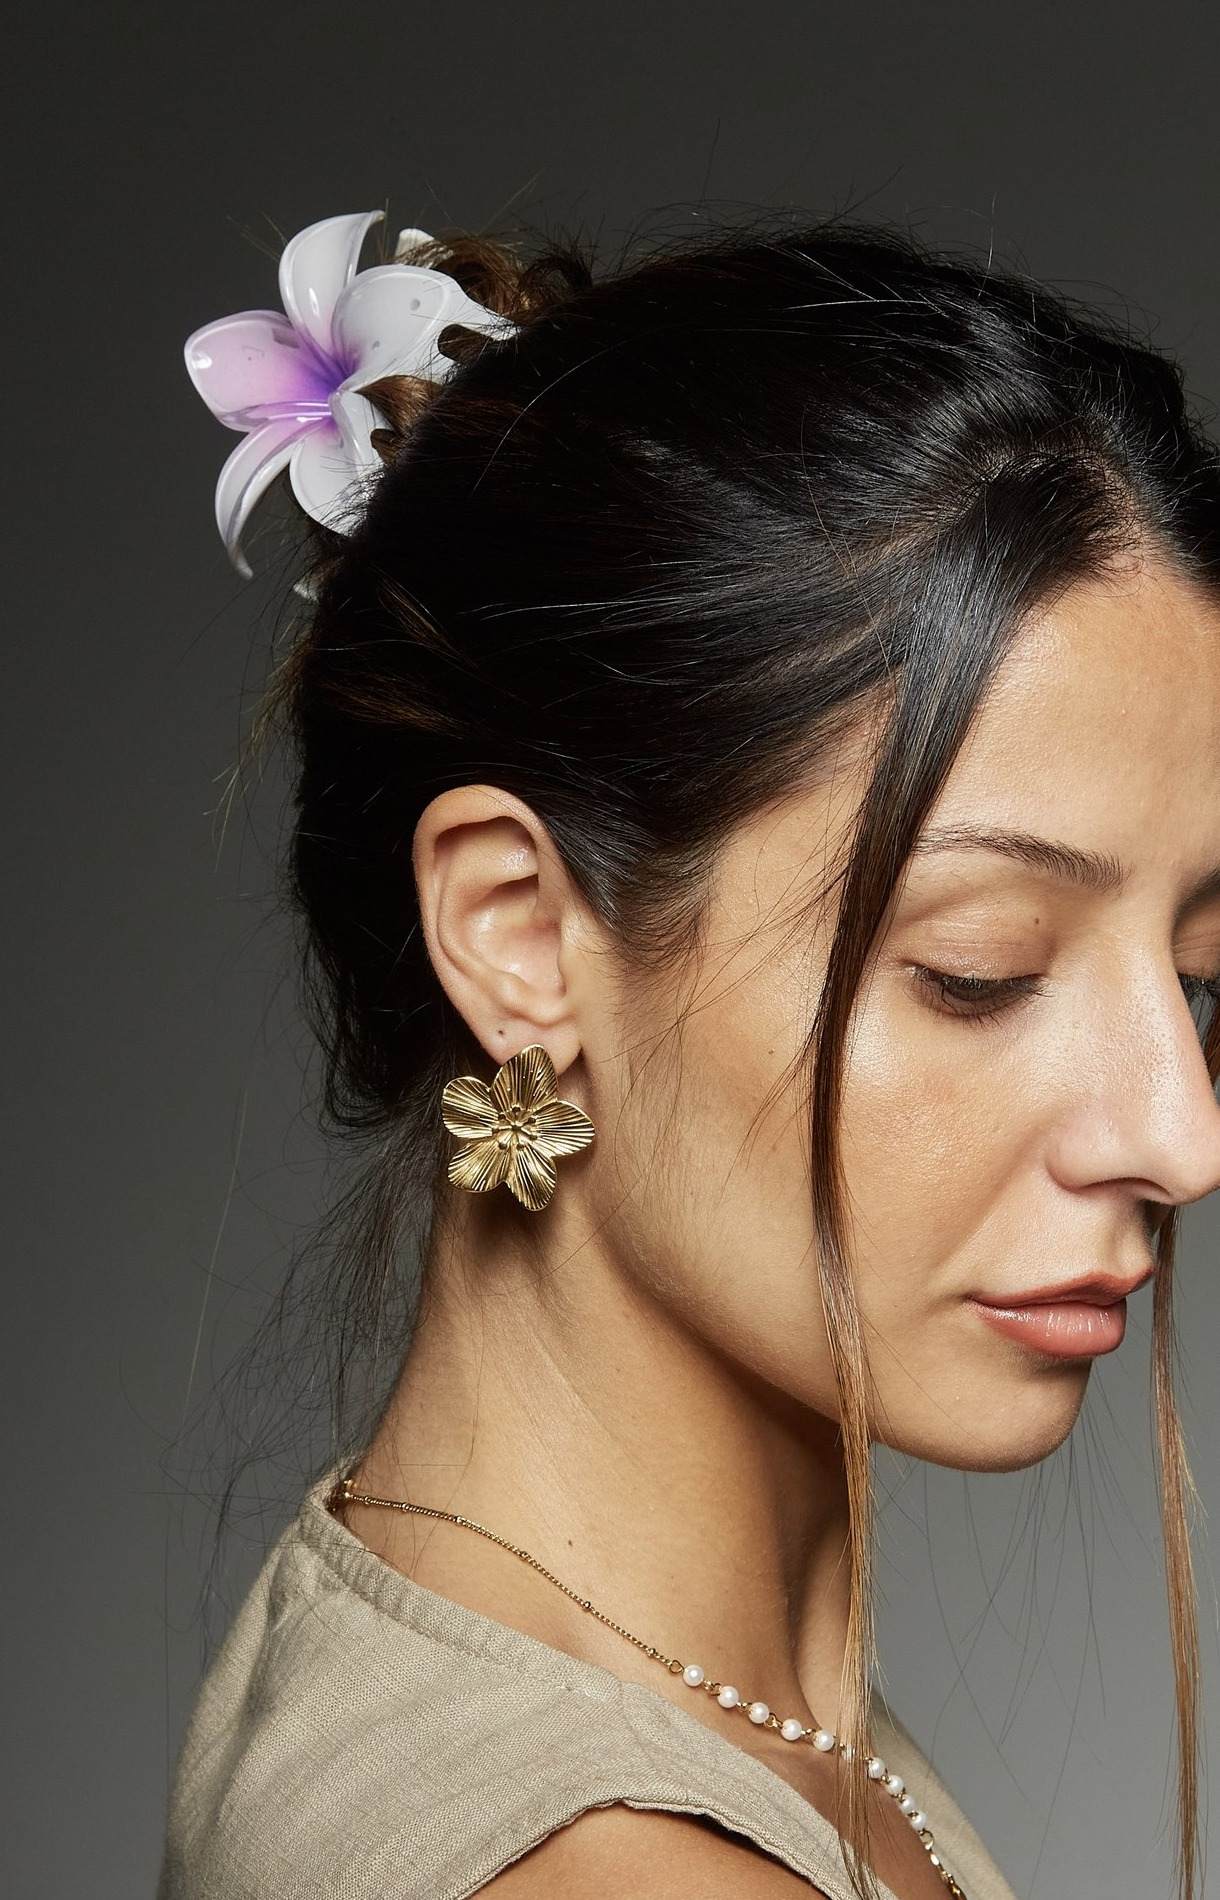
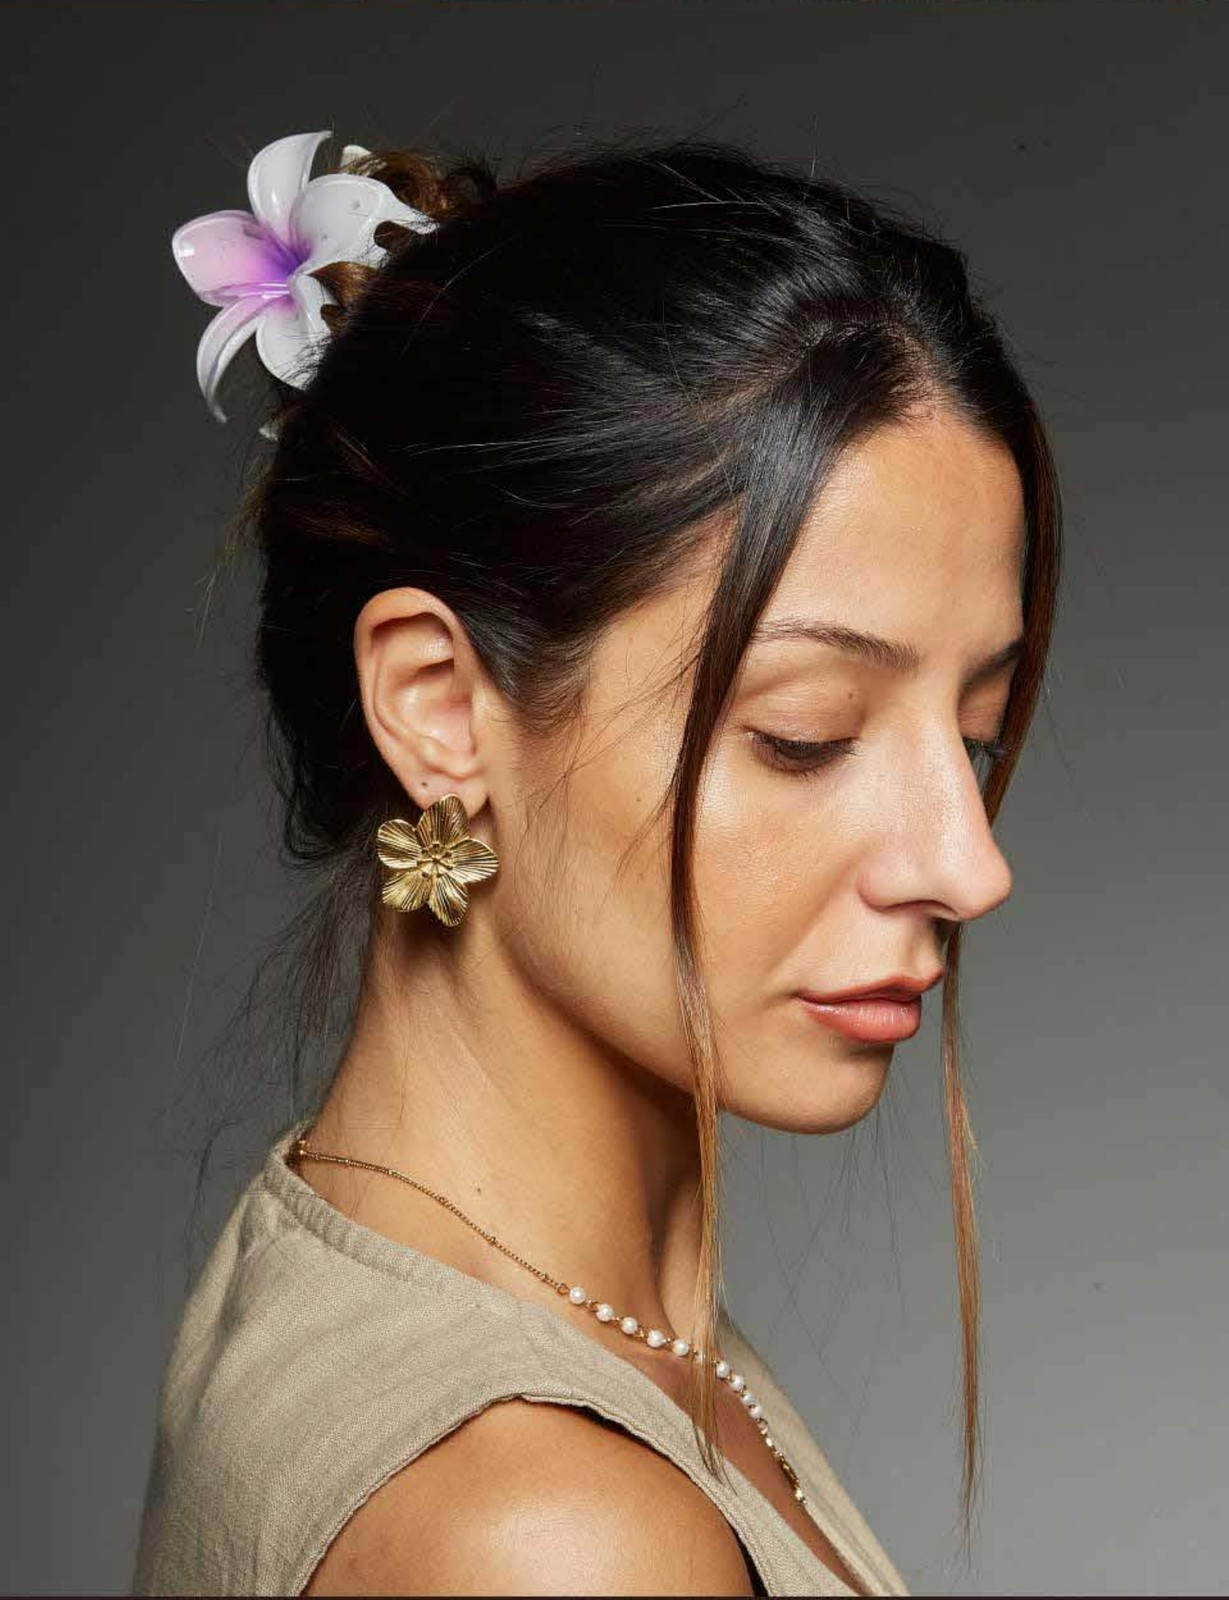
Use pixel-exact crops extracted directly from the PDF guide
Re-rendered the PDF at 200dpi and cropped the Arizona photo and both
portrait photos at the exact pixel boundaries used in the original
design (found by scanning for the background color transitions
between sections), instead of recreating the crops by eye from the
source photos. This guarantees the framing matches the PDF exactly:
- Arizona photo is much taller than before and includes the full
  face (eye, nose, mouth) down to the hand/rings, not just a tight
  neck/hand strip
- Both portrait photos keep their earlier full flower+ear+necklace+
  shoulder framing, now at the PDF's exact crop boundaries

diff --git a/index.html b/index.html
@@ -8,7 +8,7 @@
 <link rel="preconnect" href="https://fonts.googleapis.com">
 <link rel="preconnect" href="https://fonts.gstatic.com" crossorigin>
 <link href="https://fonts.googleapis.com/css2?family=Bodoni+Moda:ital,wght@0,400;0,500;0,600;1,400;1,500&family=Inter:wght@300;400;500;600;700;800;900&display=swap" rel="stylesheet">
-<link rel="stylesheet" href="styles.css?v=21">
+<link rel="stylesheet" href="styles.css?v=22">
 </head>
 <body>
 
@@ -86,7 +86,7 @@
 <!-- ARIZONA ACCESORIOS -->
 <section class="arizona-feature">
   <div class="g-cell reveal-up">
-    <img src="assets/img/brand5_arizona.jpg?v=2" alt="Colaboración Arizona Accesorios">
+    <img src="assets/img/brand5_arizona.jpg?v=3" alt="Colaboración Arizona Accesorios">
     <a class="credit" href="https://instagram.com/arizona.accesorios" target="_blank" rel="noopener">@arizona.accesorios</a>
   </div>
 </section>
@@ -94,10 +94,10 @@
 <!-- PORTRAIT PAIR -->
 <section class="portrait-pair">
   <div class="g-cell reveal-up">
-    <img src="assets/img/portrait_left.jpg?v=2" alt="Beauty portrait">
+    <img src="assets/img/portrait_left.jpg?v=3" alt="Beauty portrait">
   </div>
   <div class="g-cell reveal-up">
-    <img src="assets/img/portrait_right.jpg?v=2" alt="Beauty portrait">
+    <img src="assets/img/portrait_right.jpg?v=3" alt="Beauty portrait">
   </div>
 </section>
 

diff --git a/styles.css b/styles.css
@@ -230,13 +230,12 @@ a{color:inherit;text-decoration:none;}
 .portrait-pair{
   display:grid; grid-template-columns:1fr 1fr; gap:0; background:var(--accent);
 }
-.portrait-pair .g-cell:nth-child(1){ aspect-ratio: 1120/1700; }
-.portrait-pair .g-cell:nth-child(2){ aspect-ratio: 1220/1900; }
+.portrait-pair .g-cell{ aspect-ratio: 2595/3378; }
 
 .arizona-feature{
   display:flex; justify-content:center; background:var(--accent);
 }
-.arizona-feature .g-cell{ width:100%; aspect-ratio: 2350/770; }
+.arizona-feature .g-cell{ width:100%; aspect-ratio: 5190/5375; }
 
 .credit{
   position:absolute; right:10px; bottom:10px;
